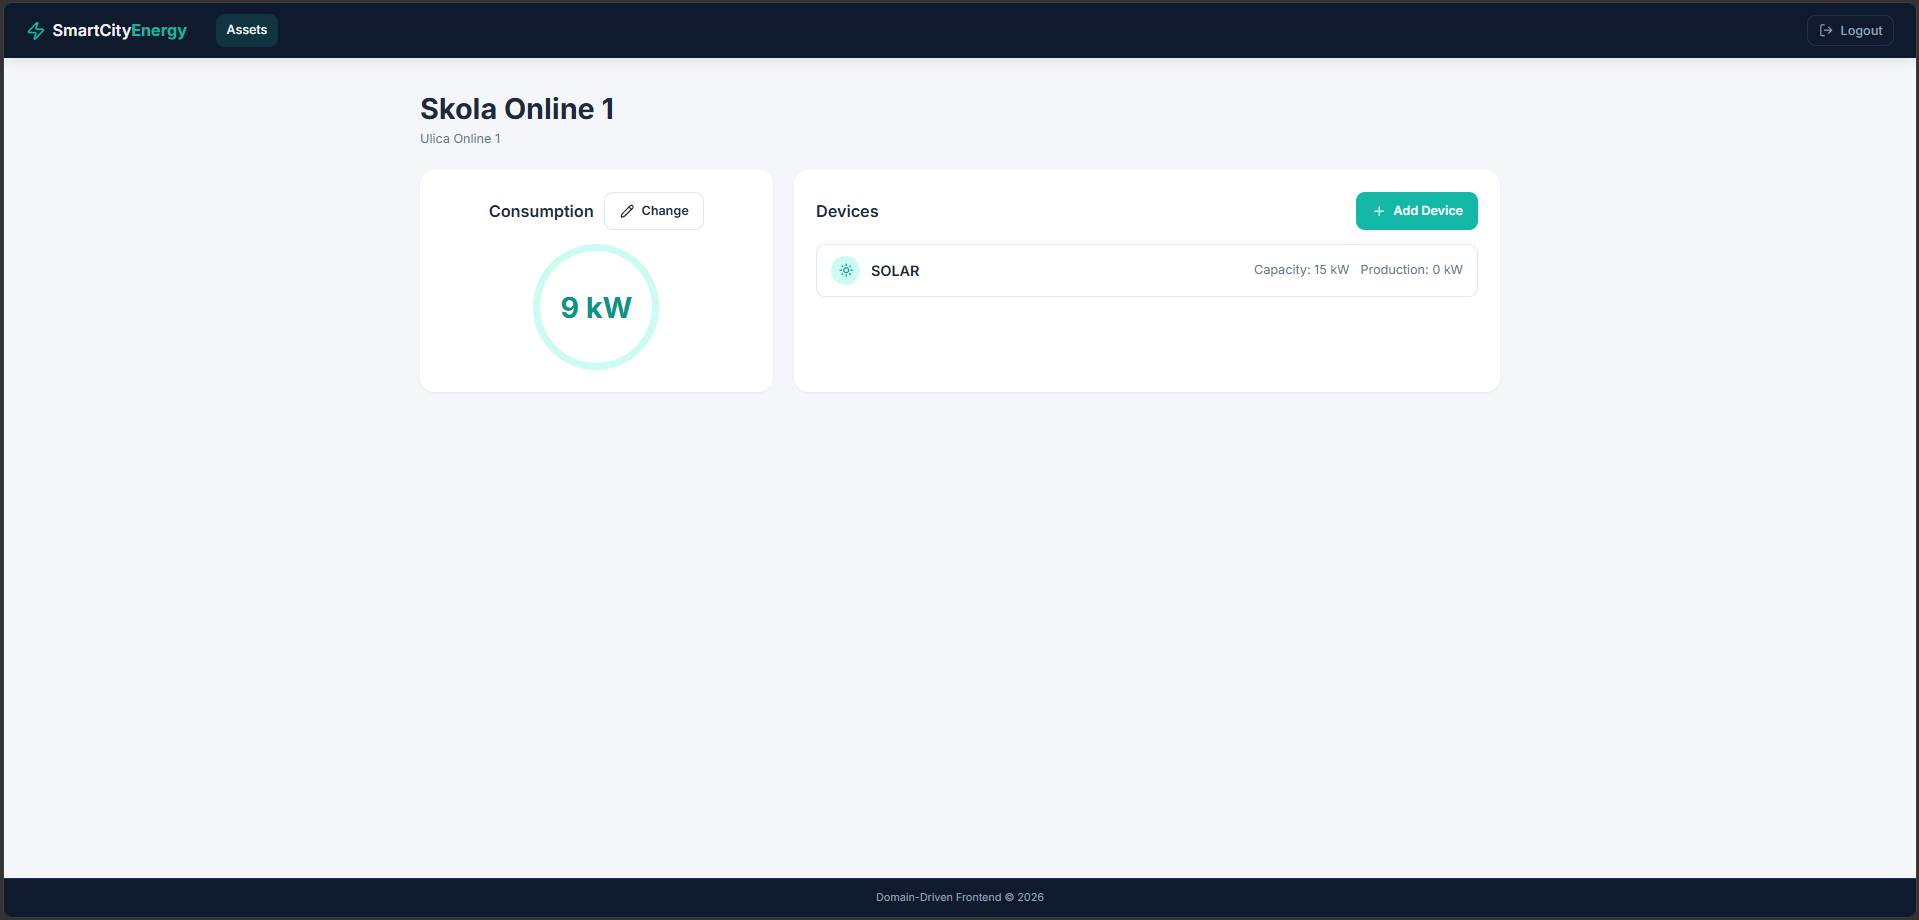
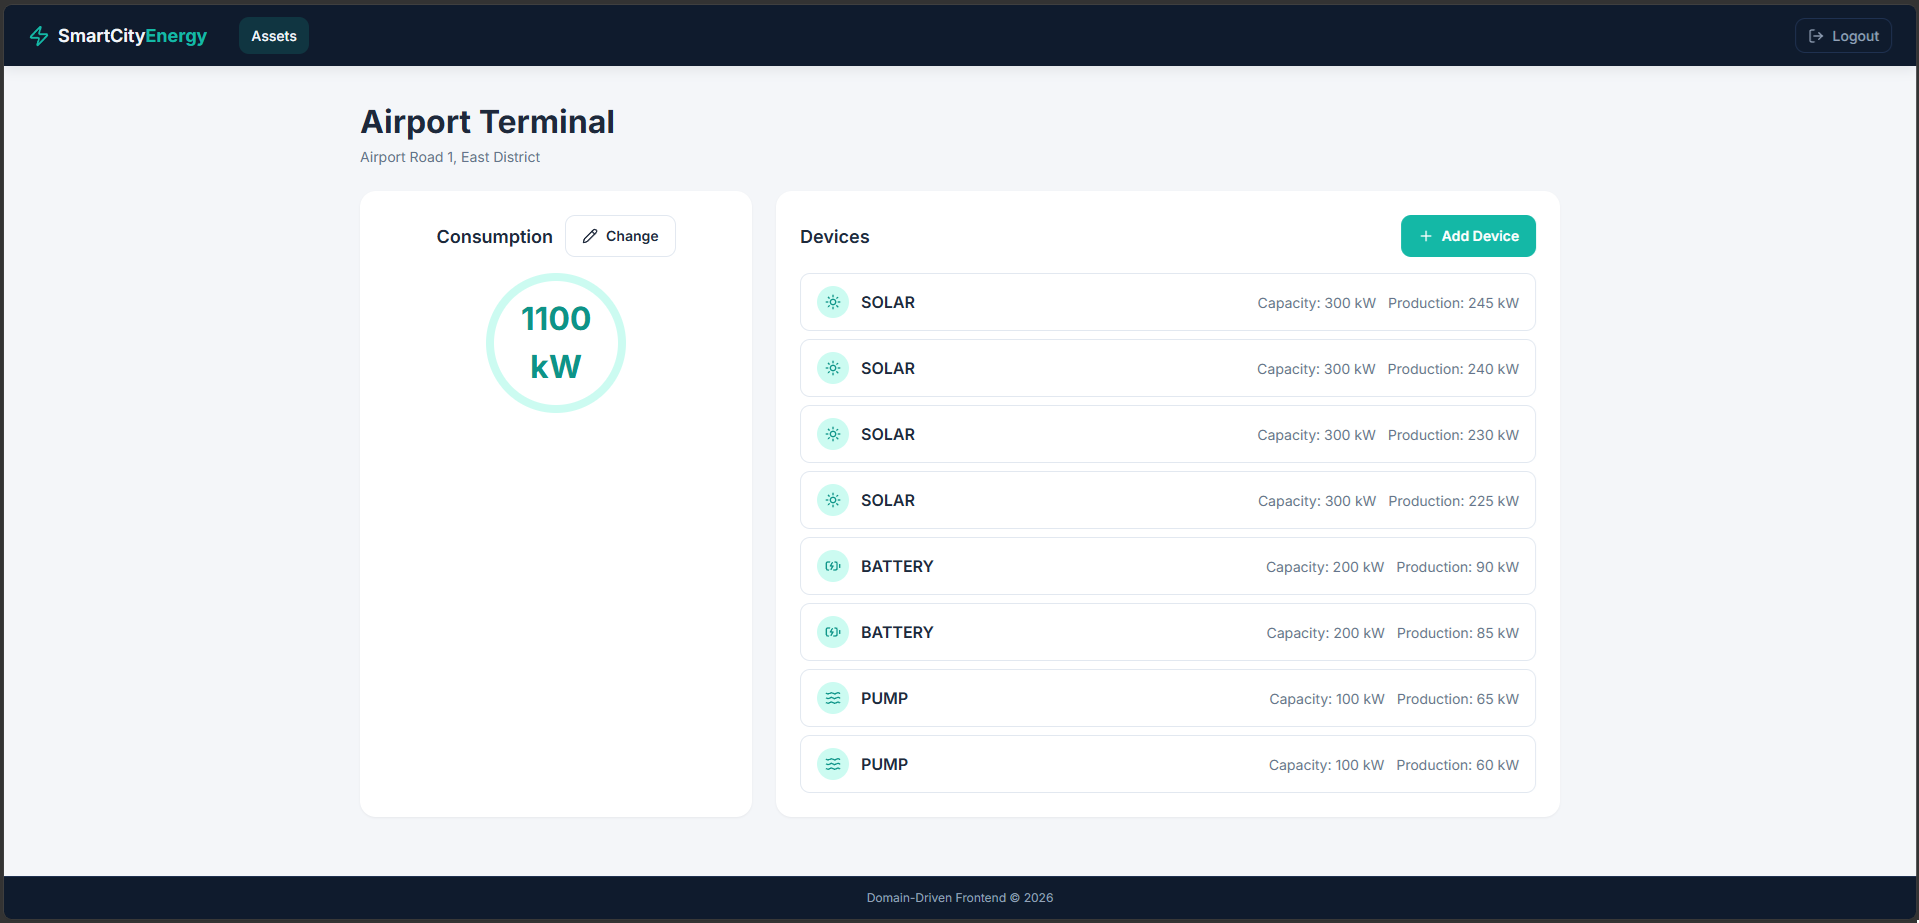
fix(docs): update ui screenshots

diff --git a/README.md b/README.md
@@ -17,9 +17,9 @@ An Angular 18 single-page application for managing smart city infrastructure —
 
 ## Screenshots
 
-![Login](docs/screenshots/login-page.png)
-![Building list](docs/screenshots/building-list.png)
-![Building detail](docs/screenshots/building-detail.png)
+![Login](docs/screenshots/login-page.png?v=2) 
+![Building list](docs/screenshots/building-list.png?v=2)
+![Building detail](docs/screenshots/building-detail.png?v=2)
 
 ---
 
